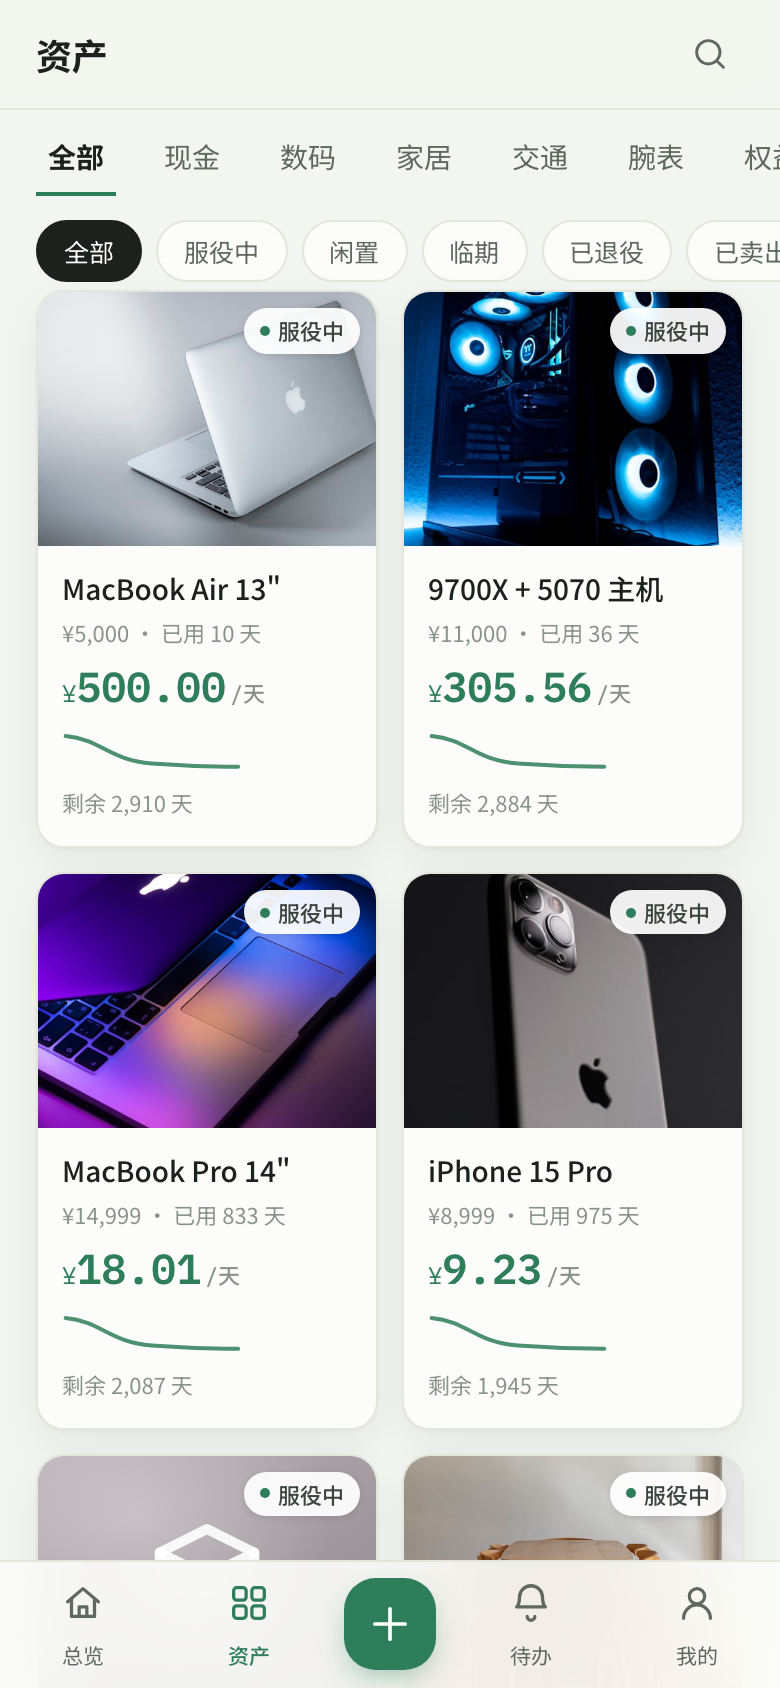
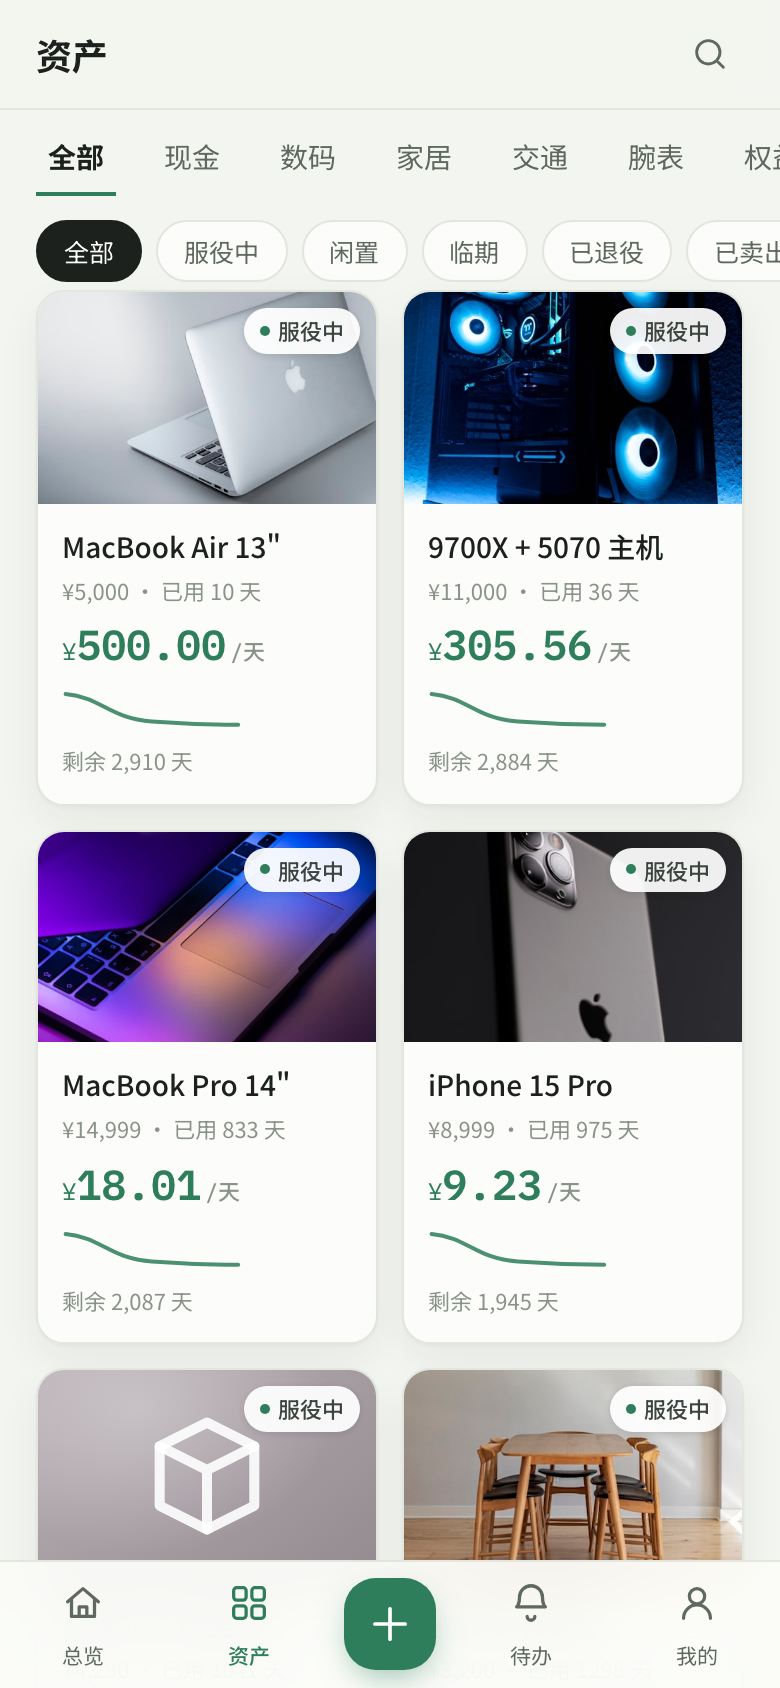
feat: 加极氪001 + 卡片图更紧凑 + 列表缩略图同步真图
- 新增资产「极氪001」（交通，真实电动车充电图 thumbs/zeekr.jpg）；sw 预缓存升版 v3。
- 卡片视图照片比例 4:3 → 16:10，更扁、占位更小。
- 列表视图缩略图本就读 a.photo，随真图一并同步（刷新截图体现）。

Changed region(s): [[0.0308, 0.154, 0.9538, 0.9242], [0.3692, 0.154, 0.4615, 0.1848]]

diff --git a/demo/index.html b/demo/index.html
@@ -154,7 +154,7 @@ main{flex:1;overflow-y:auto;overflow-x:hidden;-webkit-overflow-scrolling:touch;p
 .gcell{background:var(--card);border:1px solid var(--hair);border-radius:var(--radius);box-shadow:var(--shadow);overflow:hidden;display:flex;flex-direction:column;}
 .gcell:active{transform:scale(.99);}
 .gcell.faded{opacity:.6;}
-.gcell .ph{position:relative;aspect-ratio:4/3;background:var(--card-2);display:grid;place-items:center;}
+.gcell .ph{position:relative;aspect-ratio:16/10;background:var(--card-2);display:grid;place-items:center;}
 .gcell .ph.photo{background-size:cover;background-position:center;}
 .gcell .ph > svg{width:38px;height:38px;color:var(--slate-2);opacity:.55;}
 .gcell .gpill{position:absolute;top:8px;right:8px;display:inline-flex;align-items:center;gap:4px;background:rgba(255,255,255,.93);border-radius:99px;padding:3px 8px;font-family:var(--cn);font-size:11px;font-weight:500;color:var(--ink-soft);box-shadow:0 1px 3px rgba(28,33,29,.12);}
@@ -517,6 +517,10 @@ const DEFAULT_ASSETS=[
    due:[{label:'车险到期',date:'2026-07-12'},{label:'年检',date:'2026-11-20'}],
    meta:[['车牌','沪A·8F2K9'],['购入价','¥128,000'],['购入日','2022-09-15'],['当前估值','¥96,000'],['车险到期','2026-07-12'],['下次年检','2026-11-20']],
    events:[{date:'2026-06-01',title:'加油',delta:'−¥420',sub:'中石化 95号',kind:'spend'},{date:'2026-05-18',title:'小保养',delta:'−¥680',sub:'4S店',kind:'spend'},{date:'2022-09-15',title:'购入',delta:'−¥128,000',sub:'',kind:'buy'}]},
+  {id:'zeekr',group:'physical',cat:'交通',name:'极氪001',icon:'car',tint:'#D7E0E6',photo:'thumbs/zeekr.jpg',status:'active',countable:true,price:296000,bought:'2024-05-20',value:228000,
+   due:[{label:'车险到期',date:'2026-08-05'}],
+   meta:[['车牌','沪AD·0012'],['购入价','¥296,000'],['购入日','2024-05-20'],['当前估值','¥228,000'],['续航','WLTP 656km'],['车险到期','2026-08-05']],
+   events:[{date:'2026-06-10',title:'充电',delta:'−¥58',sub:'家充 · 42 度',kind:'spend'},{date:'2024-05-20',title:'购入',delta:'−¥296,000',sub:'极氪001 WE 版',kind:'buy'}]},
   // 腕表
   {id:'watch',group:'physical',cat:'腕表',name:'浪琴名匠',icon:'watch',tint:'#E8E4D7',photo:'thumbs/watch.jpg',status:'active',countable:true,price:14800,bought:'2023-02-14',value:9800,
    meta:[['购入价','¥14,800'],['购入日','2023-02-14'],['当前估值','¥9,800'],['成色','98新 · 含表盒']],

diff --git a/demo/sw.js b/demo/sw.js
@@ -1,4 +1,4 @@
-const CACHE_NAME = 'youshu-v2';
+const CACHE_NAME = 'youshu-v3';
 const ASSETS = [
   './',
   './index.html',
@@ -14,6 +14,7 @@ const ASSETS = [
   './thumbs/ip12.jpg',
   './thumbs/table.jpg',
   './thumbs/car.jpg',
+  './thumbs/zeekr.jpg',
   './thumbs/watch.jpg'
 ];
 
